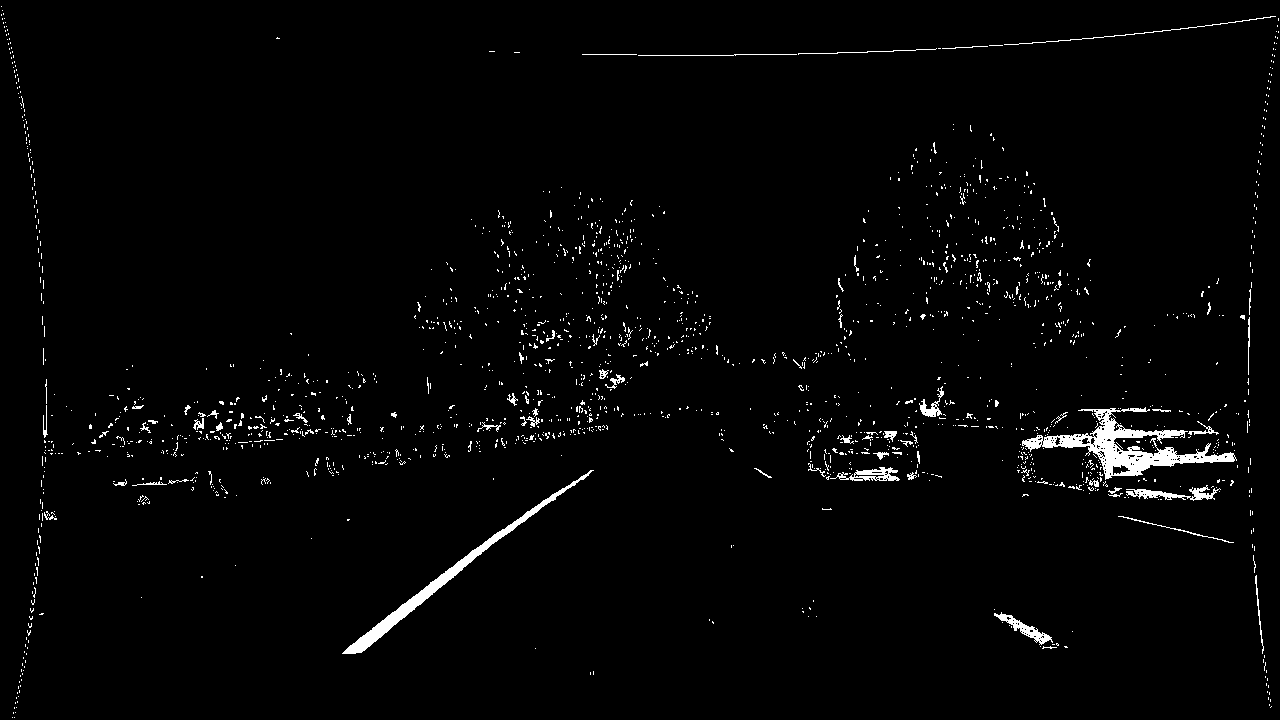
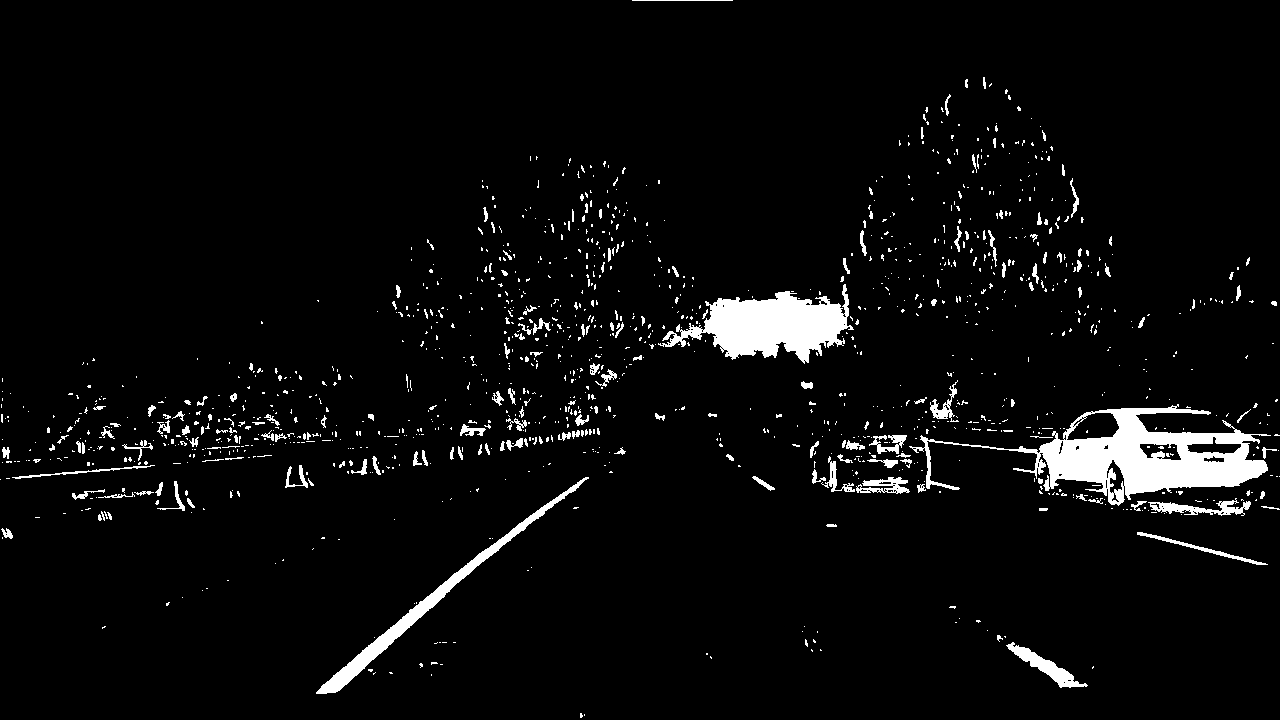
Undistort i binarni threshold ispravljeni

diff --git a/lane_detection.py b/lane_detection.py
@@ -7,22 +7,24 @@ mtx, dist = data['mtx'], data['dist']
 
 def undistort(img):
     h, w = img.shape[:2]
-    newCameraMtx, roi = cv2.getOptimalNewCameraMatrix(mtx, dist, (w, h), 1, (w, h))
+    newCameraMtx, roi = cv2.getOptimalNewCameraMatrix(mtx, dist, (w, h), 0, (w, h))
     return cv2.undistort(img, mtx, dist, None, newCameraMtx)
 
 
-def threshold_binary(img, s_thresh=(190, 255), sx_thresh=(60, 100)):
+def threshold_binary(img, s_thresh=170, sx_thresh=120, l_thresh=200):
     hls = cv2.cvtColor(img, cv2.COLOR_BGR2HLS)
     l_channel = hls[:, :, 1]
     s_channel = hls[:, :, 2]
 
-    sobelx = np.absolute(cv2.Sobel(l_channel, cv2.CV_64F, 1, 0))
-    scaled = np.uint8(255 * sobelx / max(np.max(sobelx), 1e-6))
+    blur = cv2.GaussianBlur(l_channel, (5, 5), 0)
+    sobelX = cv2.Sobel(blur, ddepth=cv2.CV_32F, dx=1, dy=0, ksize=3)
+    absX = cv2.convertScaleAbs(sobelX)
+    _, sx_binary = cv2.threshold(absX, sx_thresh, 255, cv2.THRESH_BINARY)
 
-    sx_binary = cv2.inRange(scaled, sx_thresh[0], sx_thresh[1])
-    s_binary = cv2.inRange(s_channel, s_thresh[0], s_thresh[1])
+    _, s_binary = cv2.threshold(s_channel, s_thresh, 255, cv2.THRESH_BINARY)
+    _, l_binary = cv2.threshold(l_channel, l_thresh, 255, cv2.THRESH_BINARY)
 
-    return cv2.bitwise_or(sx_binary, s_binary)
+    return cv2.bitwise_or(sx_binary, cv2.bitwise_or(s_binary, l_binary))
 
 
 if __name__ == "__main__":
@@ -32,6 +34,10 @@ if __name__ == "__main__":
 
     cv2.imwrite('docs/undistort_road_compare.png', np.hstack([img, undist]))
     cv2.imwrite('docs/binary_combo.png', binary)
+
+    hls = cv2.cvtColor(undist, cv2.COLOR_BGR2HLS)
+    blur = cv2.GaussianBlur(hls[:, :, 1], (5, 5), 0)
+    absX = cv2.convertScaleAbs(cv2.Sobel(blur, cv2.CV_32F, 1, 0, ksize=3))
 
     cv2.imshow('Original - Undistorted', np.hstack([img, undist]))
     cv2.imshow('Binary', binary)
